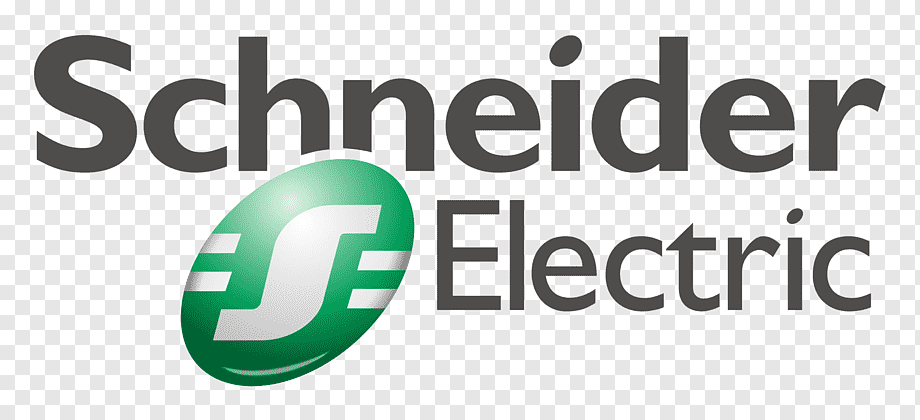
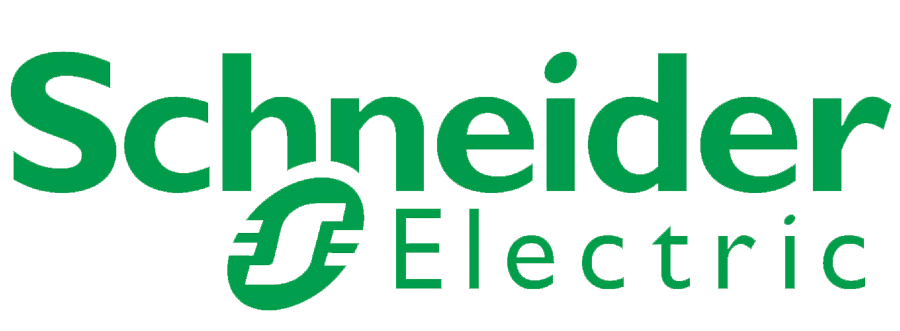
styling partners section & animation y-position

diff --git a/src/pages/Automation.jsx b/src/pages/Automation.jsx
@@ -10,7 +10,7 @@ import scada1 from '../img/scada1.png'
 import elec1 from '../img/elec1.png'
 import marlew from '../img/marlew.png'
 import furukawa from '../img/furukawa.png'
-import schneider from '../img/schneider.svg'
+import schneider from '../img/schneider.png'
 import phoenix from '../img/phoenix.png'
 
 
@@ -147,7 +147,7 @@ const Automation = () => {
                             • Cálculo de selectividad y protecciones<br />
                             • Desarrollo de automatizaciones<br />
                             • Planos y Documentación del proyecto<br />
-                            <strong> Montajes</strong> <br /> 
+                            <strong> Montajes</strong> <br />
                             • Montaje de FM en Líneas de producción<br />
                             • Instalaciones en baja y media tensión<br />
                             • Sistemas de Iluminación interior y extreriorv
@@ -170,10 +170,13 @@ const Automation = () => {
                 </Tabs>
             </div>
             <div className="partners">
-                <Image src={schneider} className='partImage' />
-                <Image src={phoenix} className='partImage' />
-                <Image src={marlew} className='partImage' />
-                <Image src={furukawa} className='partImage' />
+                <h3>Nuestros socios y proveedores</h3>
+                <div className="partLogos">
+                    <Image src={schneider} className='partImage' />
+                    <Image src={phoenix} className='partImage' />
+                    <Image src={marlew} className='partImage' />
+                    <Image src={furukawa} className='partImage' />
+                </div>
             </div>
         </div>
     )

diff --git a/src/styles/pages/_automatition.scss b/src/styles/pages/_automatition.scss
@@ -9,6 +9,7 @@
         background-size: cover;
         height: 80vh;
         transition: height 2s;
+        margin-top: -5rem;
     }
 
     .animCollapse {
@@ -70,9 +71,7 @@
     .automDetail {
         width: 100%;
         height: min-content;
-        background: linear-gradient(180deg, $colorWhite 0%, rgba(231, 231, 231, 0) 100%);
-        margin-top: 5rem;
-        padding-bottom: 2rem;
+        @extend %whiteGradient;
         color: $colorWhite;
 
 
@@ -106,13 +105,32 @@
     }
 
     .partners {
-        width: 80%;
-        display: flex;
-        flex-wrap: wrap;
+        width: 100%;
+        height: 20rem;
+        color: $colorBlack;
+        padding-top: 2rem;
+        @extend %whiteGradient;
 
-        .partImage {
-            margin: 0 3rem;
-            width: 10rem;
+        h3 {
+            font-weight: $fontWeightTitle;
+            padding-left: 8rem;
+            margin-bottom: 5rem;
+        }
+
+        .partLogos {
+            width: 90%;
+            padding-left: 10rem;
+            @extend %flexWrap;
+            align-items: center;
+
+            .partImage {
+                margin: 0 2rem;
+                width: 13rem;
+
+                &:hover {
+                    @extend %hover110;
+                }
+            }
         }
     }
 

diff --git a/src/styles/config/_extends.scss b/src/styles/config/_extends.scss
@@ -59,3 +59,9 @@
     min-height: 100vh;
     padding-top: 10rem;
 }
+
+%whiteGradient {
+    background: linear-gradient(180deg, $colorWhite 0%, rgba(231, 231, 231, 0) 100%);
+    margin-top: 5rem;
+    padding-bottom: 2rem;
+}
